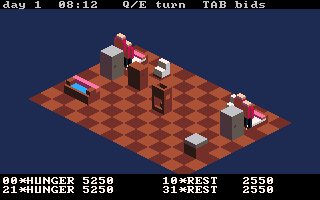
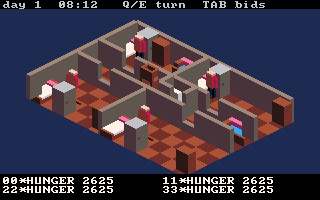
tenement: walls you can see, and residents who lie down on the bed
WALLS RENDER. world.h had edge walls and path.h was already routing around them,
but art.h was not the world agent's file to edit, so the sim was honest and the
picture was not. Iterating each tile's north and west edge visits every wall
exactly once (the south edge IS the next tile's north), and orientation needs no
`facing` field: the DIRECTION is the orientation, so N/S takes the *_NS model and
E/W the *_EW one. That was the world agent's reason for choosing edges and it
makes iso-rooms §8's turned-footprint bug unrepresentable here.

POSTURE, which the maker spotted: residents were STANDING on their beds. Not a
drawing bug - nothing in the model had any notion of posture, so the renderer had
one figure to draw. Posture is now a field on the OFFER, so a bed says "using me
means lying down" and the art follows. A new posture for a new object is a table
row and the draw loop still never asks what an object is (contract rule 2). Note
it sits on the offer, not the object: a sofa is SIT for its FUN offer and would be
LIE if it ever offered REST.

That took two fixes, not one, because posture without placement just moves the
wrongness: the first cut had residents lying on the FLOOR beside the bed. They now
draw ON what they use, at that object's own voxel height from ISO_FOOTPRINT (so a
taller bed lifts the sleeper with no hardcoded number), centred on it rather than
parked at its corner - a bed is 6x12 voxels and a lying figure 3x8, so the origin
[…]

diff --git a/tools/voxel-models/tenement.js b/tools/voxel-models/tenement.js
@@ -264,6 +264,33 @@ module.exports = {
       1,
     ]},
 
+    // ── the figure, LYING DOWN. ──
+    // Posture is a property of the OFFER, not a special case in the renderer: a bed says "using me
+    // means lying down" and the art follows. Standing on a bed was the giveaway that the sim had no
+    // notion of posture at all.
+    //
+    // Head at y=0 so the model lies along +y, the same axis a bed's headboard sits on. Two voxels
+    // tall, because a person on a mattress is a low silhouette and at 24px per tile the read comes
+    // from the OUTLINE (long, with a head at one end), never from detail.
+    person_lie: { layers: [
+      ['.h.',
+       'bbb',
+       'bbb',
+       '.b.',
+       '.j.',
+       '.j.',
+       'j.j',
+       'j.j'],
+      ['.h.',
+       'bbb',
+       '.b.',
+       '...',
+       '...',
+       '...',
+       '...',
+       '...'],
+    ]},
+
     // ── the figure: 12 voxels tall = 24px. ──
     // Arms out at torso level so the shoulder line is wider than the head. That contrast is what
     // makes a small figure read as a person; the 32px first cut had none and read as a lamp.

diff --git a/runtime/tenement/art.h b/runtime/tenement/art.h
@@ -44,8 +44,9 @@ void tn_camera(void) {
     cam_y = floorf((SCREEN_H - 26 - (maxy - miny)) * 0.5f - miny + 12);
 }
 
-typedef struct { float depth; int cell, rot; float vx, vy; int fp0, fp1; } Draw;
-static Draw tnr_dl[TN_MAX_OBJECTS + TN_MAX_AGENTS];
+typedef struct { float depth; int cell, rot; float vx, vy, vz; int fp0, fp1; int shadow; } Draw;
+// + 2*TN_N because every tile can carry a north AND a west edge wall.
+static Draw tnr_dl[TN_MAX_OBJECTS + TN_MAX_AGENTS + 2 * TN_N];
 static int tnr_dl_n;
 static int tnr_cmp_draw(const void *a, const void *b) {
     const float d = ((const Draw*)a)->depth - ((const Draw*)b)->depth;
@@ -70,30 +71,86 @@ void tn_draw_world(void) {
         tnr_dl[tnr_dl_n++] = (Draw){ tnr_iso_depth(tn_rot, tn_obj[o].tx*TN_TILE_VOX + fp[0]*0.5f,
                                                tn_obj[o].ty*TN_TILE_VOX + fp[1]*0.5f),
                              cell, tn_rot, (float)tn_obj[o].tx*TN_TILE_VOX,
-                             (float)tn_obj[o].ty*TN_TILE_VOX, fp[0], fp[1] };
+                             (float)tn_obj[o].ty*TN_TILE_VOX, 0.0f, fp[0], fp[1], 1 };
     }
     for (int i = 0; i < tn_agent_n; i++) {
-        const short *fp = ISO_FOOTPRINT[ISO_PERSON];
-        tnr_dl[tnr_dl_n++] = (Draw){ tnr_iso_depth(tn_rot, tn_agent[i].tx*TN_TILE_VOX + fp[0]*0.5f,
-                                               tn_agent[i].ty*TN_TILE_VOX + fp[1]*0.5f),
-                             ISO_PERSON, (tn_rot + tn_agent[i].facing) & 3,
-                             (float)tn_agent[i].tx*TN_TILE_VOX,
-                             (float)tn_agent[i].ty*TN_TILE_VOX, fp[0], fp[1] };
+        // The cell comes from the agent's POSE, which came from the offer it is using. No branch on
+        // object kind anywhere: a bed does not tell the renderer it is a bed, it tells the sim that
+        // using it means lying down (contract rule 2). Standing on a mattress was the symptom of
+        // there being no notion of posture at all.
+        const int pcell = (tn_agent[i].pose == TN_POSE_LIE) ? ISO_PERSON_LIE : ISO_PERSON;
+        const short *fp = ISO_FOOTPRINT[pcell];
+        // A resident who is not standing is ON the thing it is using, not on the floor beside it.
+        // Position comes from the OBJECT and height from that object's own voxel depth (ISO_FOOTPRINT
+        // carries nx,ny,NZ), so a taller bed lifts the sleeper without anyone hardcoding a number.
+        // Lying beside the bed was the second half of the standing-on-the-bed bug: posture without
+        // placement just moves the wrongness.
+        float ax = (float)tn_agent[i].tx * TN_TILE_VOX, ay = (float)tn_agent[i].ty * TN_TILE_VOX;
+        float az = 0.0f;
+        int   arot = (tn_rot + tn_agent[i].facing) & 3;
+        if (tn_agent[i].pose != TN_POSE_STAND && tn_agent[i].target_obj >= 0) {
+            const TnObject *ob = &tn_obj[tn_agent[i].target_obj];
+            const short *ofp = ISO_FOOTPRINT[OBJ_CELL[ob->kind]];
+            // CENTRED on the furniture, not parked at its corner: a bed is 6x12 voxels and a lying
+            // figure is 3x8, so using the object's origin puts the sleeper half off the mattress.
+            ax = (float)ob->tx * TN_TILE_VOX + (ofp[0] - fp[0]) * 0.5f;
+            ay = (float)ob->ty * TN_TILE_VOX + (ofp[1] - fp[1]) * 0.5f;
+            az = (float)ofp[2];                       // stand ON its surface, whatever height it is
+            arot = tn_rot;                            // align with the furniture, not with the walk
+        }
+        tnr_dl[tnr_dl_n++] = (Draw){ tnr_iso_depth(tn_rot, ax + fp[0]*0.5f, ay + fp[1]*0.5f) + 0.5f,
+                             pcell, arot, ax, ay, az, fp[0], fp[1], az == 0.0f };
     }
+    // ── EDGE WALLS ──────────────────────────────────────────────────────────
+    // world.h stores walls on tile EDGES, not tiles, and only each tile's north and west edge (the
+    // south edge IS the next tile's north). So iterating N and W per tile visits every wall exactly
+    // once, with no double-draw to guard against.
+    //
+    // Orientation needs no `facing` field and cannot be got wrong: the DIRECTION is the orientation,
+    // so a north/south edge takes the *_NS model and an east/west edge the *_EW one. That was the
+    // world agent's reason for choosing edges, and it makes iso-rooms §8's turned-footprint bug
+    // unrepresentable here rather than merely avoided.
+    //
+    // A wall model is 6 voxels long and 2 thick, so it straddles the boundary: offset by half its
+    // thickness so it sits ON the edge rather than inside one of the two tiles.
+    for (int ty = 0; ty < tn_bh; ty++) {
+        for (int tx = 0; tx < tn_bw; tx++) {
+            const float vx = tx * TN_TILE_VOX, vy = ty * TN_TILE_VOX;
+            const int en = tn_edge_at(tx, ty, TN_DIR_N);
+            if (en != TN_WALL_NONE) {
+                const int cell = (en == TN_WALL_DOOR) ? ISO_WALL_LOW_NS : ISO_WALL_FULL_NS;
+                const short *fp = ISO_FOOTPRINT[cell];
+                tnr_dl[tnr_dl_n++] = (Draw){ tnr_iso_depth(tn_rot, vx + fp[0] * 0.5f, vy),
+                                             cell, tn_rot, vx, vy - 1.0f, 0.0f, fp[0], fp[1], 0 };
+            }
+            const int ew = tn_edge_at(tx, ty, TN_DIR_W);
+            if (ew != TN_WALL_NONE) {
+                const int cell = (ew == TN_WALL_DOOR) ? ISO_WALL_LOW_EW : ISO_WALL_FULL_EW;
+                const short *fp = ISO_FOOTPRINT[cell];
+                tnr_dl[tnr_dl_n++] = (Draw){ tnr_iso_depth(tn_rot, vx, vy + fp[1] * 0.5f),
+                                             cell, tn_rot, vx - 1.0f, vy, 0.0f, fp[0], fp[1], 0 };
+            }
+        }
+    }
+
     qsort(tnr_dl, tnr_dl_n, sizeof tnr_dl[0], tnr_cmp_draw);
     for (int i = 0; i < tnr_dl_n; i++) {
         const IsoCell *c = &ISO_CELLS[tnr_dl[i].cell][tnr_dl[i].rot];
-        float sx, sy; tnr_iso_project(tn_rot, tnr_dl[i].vx, tnr_dl[i].vy, 0, &sx, &sy);
-        // one-voxel-INSET contact shadow: an integer inset, because a fractional pad puts the quad
-        // between lattice points and strays everywhere (iso-rooms.md §7's measured table)
-        float q[4][2]; const float pad = 1.0f;
-        const float x0 = tnr_dl[i].vx+pad, y0 = tnr_dl[i].vy+pad;
-        const float x1 = tnr_dl[i].vx+tnr_dl[i].fp0-pad, y1 = tnr_dl[i].vy+tnr_dl[i].fp1-pad;
-        tnr_iso_project(tn_rot, x0,y0,0,&q[0][0],&q[0][1]); tnr_iso_project(tn_rot, x1,y0,0,&q[1][0],&q[1][1]);
-        tnr_iso_project(tn_rot, x1,y1,0,&q[2][0],&q[2][1]); tnr_iso_project(tn_rot, x0,y1,0,&q[3][0],&q[3][1]);
-        quadfill((int)(q[0][0]+cam_x),(int)(q[0][1]+cam_y),(int)(q[1][0]+cam_x),(int)(q[1][1]+cam_y),
-                 (int)(q[2][0]+cam_x),(int)(q[2][1]+cam_y),(int)(q[3][0]+cam_x),(int)(q[3][1]+cam_y),
-                 CLR_BROWNISH_BLACK);
+        float sx, sy; tnr_iso_project(tn_rot, tnr_dl[i].vx, tnr_dl[i].vy, tnr_dl[i].vz, &sx, &sy);
+        // A contact shadow, but only for things that stand on a TILE. A wall stands on an EDGE, so
+        // its footprint quad would smear a dark stripe along the boundary between two rooms.
+        if (tnr_dl[i].shadow) {
+            // one-voxel-INSET: an integer inset, because a fractional pad puts the quad between
+            // lattice points and strays pixels everywhere (iso-rooms.md §7's measured table)
+            float q[4][2]; const float pad = 1.0f;
+            const float x0 = tnr_dl[i].vx+pad, y0 = tnr_dl[i].vy+pad;
+            const float x1 = tnr_dl[i].vx+tnr_dl[i].fp0-pad, y1 = tnr_dl[i].vy+tnr_dl[i].fp1-pad;
+            tnr_iso_project(tn_rot, x0,y0,0,&q[0][0],&q[0][1]); tnr_iso_project(tn_rot, x1,y0,0,&q[1][0],&q[1][1]);
+            tnr_iso_project(tn_rot, x1,y1,0,&q[2][0],&q[2][1]); tnr_iso_project(tn_rot, x0,y1,0,&q[3][0],&q[3][1]);
+            quadfill((int)(q[0][0]+cam_x),(int)(q[0][1]+cam_y),(int)(q[1][0]+cam_x),(int)(q[1][1]+cam_y),
+                     (int)(q[2][0]+cam_x),(int)(q[2][1]+cam_y),(int)(q[3][0]+cam_x),(int)(q[3][1]+cam_y),
+                     CLR_BROWNISH_BLACK);
+        }
         sspr(c->x, c->y, c->w, c->h, (int)(sx+cam_x)-c->ox, (int)(sy+cam_y)-c->oy, c->w, c->h);
     }
 }

diff --git a/tools/carts/tenement.c b/tools/carts/tenement.c
@@ -298,6 +298,37 @@ void spec(void) {
                "case 9: and the activity clock moved on, rather than being stuck on the old one");
     }
 
+    // ── CASE 10: POSTURE IS DATA, AND THE BODY FOLLOWS THE OBJECT ───────────
+    // The maker's observation: residents were STANDING on their beds. The cause was not a drawing
+    // bug, it was that nothing in the model had any notion of posture, so the renderer had only one
+    // figure to draw. The fix is a field on the OFFER, which means a new posture for a new object is
+    // a table row (contract rule 3) and the draw loop never asks what an object is.
+    tn_obj_n = 0; tn_agent_n = 0;
+    tn_add_obj(TN_OBJ_BED,    1, 1, 0);
+    tn_add_obj(TN_OBJ_TOILET, 3, 1, 0);
+    tn_add_agent(0, 1, 2);
+    {
+        // The table itself: every offer declares a pose, and the three that matter differ.
+        expect(TN_OFFERS[TN_OBJ_BED][0].pose    == TN_POSE_LIE,   "case 10: a bed says LIE");
+        expect(TN_OFFERS[TN_OBJ_TOILET][0].pose == TN_POSE_SIT,   "case 10: a toilet says SIT");
+        expect(TN_OFFERS[TN_OBJ_LOOM][0].pose   == TN_POSE_STAND, "case 10: a loom says STAND");
+
+        // And the body follows it in the running sim, which is the part that was broken.
+        for (int n = 0; n < TN_NEED_COUNT; n++) tn_agent[0].need[n] = 255;
+        tn_agent[0].need[TN_SERVE_REST] = 20;
+        expect(tn_agent[0].pose == TN_POSE_STAND, "case 10: a resident starts on its feet");
+        int lay = 0;
+        for (int i = 0; i < 40 && !lay; i++) {
+            tn_agents_tick();
+            if (tn_agent[0].activity == TN_ACT_USE && tn_agent[0].pose == TN_POSE_LIE) lay = 1;
+        }
+        expect(lay, "case 10: a resident sent to bed is LYING DOWN, not standing on it");
+        // Finishing must put it back on its feet, or it walks around horizontally forever.
+        for (int i = 0; i < 600; i++) tn_agents_tick();
+        expect(tn_agent[0].pose == TN_POSE_STAND || tn_agent[0].activity == TN_ACT_USE,
+               "case 10: and it stands up again when it is done");
+    }
+
     // ── every module's own assertions, per spec.h's "SPECS ON AN INCLUDEABLE" ────────────────
     // Each module wrote and verified these against its own file; wiring them is the integrator's
     // job, and until this line existed none of them ran in the real build.

diff --git a/runtime/tenement/model.h b/runtime/tenement/model.h
@@ -149,6 +149,14 @@ typedef enum {
 #define TN_NEED_COUNT TN_SERVE_COUNT
 _Static_assert(TN_SERVE_HUNGER == 0, "needs must be the leading run of TnTag");
 
+// ── POSTURE: what using a thing does to your BODY ───────────────────────────
+// On the OFFER, because it is a property of the thing, not of the renderer and not of the person.
+// A bed says "using me means lying down"; the art follows. The alternative is a special case in the
+// draw loop keyed on object kind, which is contract rule 2 and the exact thing this design refuses.
+// Note it sits on the OFFER rather than the object: a sofa is SIT for its FUN offer and would be LIE
+// if it ever offered REST, and those are two different rows.
+typedef enum { TN_POSE_STAND = 0, TN_POSE_SIT, TN_POSE_LIE, TN_POSE_COUNT } TnPose;
+
 // ── one OFFER: what an object gives, how well, at what cost ─────────────────
 // `strength` and `cost` are what make the agent's choice an ARGMAX over numbers
 // rather than a hand-written priority list, which is what makes it oracle-able.
@@ -160,6 +168,7 @@ typedef struct {
                                           // silently wrap to 224 in a byte. The compiler
                                           // caught this before anyone built against it.
     unsigned char capacity;               // simultaneous users; 1 = the queue-former
+    unsigned char pose;                   // TnPose the user adopts. Art reads it; nothing branches.
 } TnOffer;
 
 // ─────────────────────────────────────────────────────────────────────────────
@@ -226,6 +235,7 @@ typedef struct {
     // The bid this agent last WON. Lives here rather than in a module-private array because two
     // modules need it: `agents` writes it, `hud` draws it. Showing the winning bid is a design
     // feature (design §1: the interesting half of this sim is invisible), not debug output.
+    unsigned char pose;                   // TnPose right now, set from the offer being used
     unsigned char bid_tag;                // TnTag, or TN_SERVE_COUNT for "nothing on offer"
     int           bid_score;
 } TnAgent;

diff --git a/runtime/tenement/atlas.h b/runtime/tenement/atlas.h
@@ -3,9 +3,9 @@
 // Baked rotation cells for an isometric room. See docs/design/iso-rooms.md.
 #pragma once
 
-#define ISO_SIG      "660fe8d2"   // guard: the .cart.js re-derives this
+#define ISO_SIG      "5bcd2bc6"   // guard: the .cart.js re-derives this
 #define ISO_ATLAS_W  128
-#define ISO_ATLAS_H  249
+#define ISO_ATLAS_H  261
 #define ISO_TW       4    // diagonal tile width, px per voxel unit
 #define ISO_TH       2
 #define ISO_CW       4    // cardinal tile width (== ISO_TW keeps the footprint equal)
@@ -28,11 +28,12 @@ typedef enum {
     ISO_WALL_FULL_EW = 8,
     ISO_LOOM = 9,
     ISO_WARDROBE = 10,
-    ISO_PERSON = 11,
-    ISO_MODEL_COUNT = 12
+    ISO_PERSON_LIE = 11,
+    ISO_PERSON = 12,
+    ISO_MODEL_COUNT = 13
 } IsoModel;
 
-static const char *ISO_NAMES[ISO_MODEL_COUNT] = { "sofa", "bed", "toilet", "fridge", "counter", "wall_low_ns", "wall_low_ew", "wall_full_ns", "wall_full_ew", "loom", "wardrobe", "person" };
+static const char *ISO_NAMES[ISO_MODEL_COUNT] = { "sofa", "bed", "toilet", "fridge", "counter", "wall_low_ns", "wall_low_ew", "wall_full_ns", "wall_full_ew", "loom", "wardrobe", "person_lie", "person" };
 
 // [model][rotation]. Rotation is 0..7; EVEN = cardinal, ODD = diagonal.
 static const IsoCell ISO_CELLS[ISO_MODEL_COUNT][ISO_ROTS] = {
@@ -47,6 +48,7 @@ static const IsoCell ISO_CELLS[ISO_MODEL_COUNT][ISO_ROTS] = {
     /* wall_full_ew */ { {0,70,16,32,12,24}, {16,70,16,32,16,30}, {32,70,16,32,4,32}, {48,70,16,32,0,26} },
     /* loom       */ { {96,0,20,34,8,24}, {0,36,20,34,20,28}, {20,36,20,34,12,34}, {40,36,20,34,0,30} },
     /* wardrobe   */ { {36,102,20,30,8,20}, {56,102,20,30,20,24}, {76,102,20,30,12,30}, {96,102,20,30,0,26} },
+    /* person_lie */ { {64,233,20,14,16,3}, {104,233,20,12,22,10}, {0,249,20,12,4,13}, {84,233,20,14,-2,6} },
     /* person     */ { {96,132,12,28,2,23}, {72,132,12,29,12,25}, {84,132,12,29,10,30}, {108,132,12,28,0,28} },
 };
 
@@ -63,5 +65,6 @@ static const short ISO_FOOTPRINT[ISO_MODEL_COUNT][3] = {
     /* wall_full_ew */ {2,6,12},
     /* loom       */ {6,4,12},
     /* wardrobe   */ {6,4,10},
+    /* person_lie */ {3,8,2},
     /* person     */ {5,3,12},
 };

diff --git a/runtime/tenement/offer.h b/runtime/tenement/offer.h
@@ -10,15 +10,15 @@
 #define TENEMENT_OFFER_H
 
 const TnOffer TN_OFFERS[TN_OBJ_KIND_COUNT][TN_MAX_OFFERS] = {
-    [TN_OBJ_BED]      = { { TN_SERVE_REST,    120, 480, 1 } },   // 8 hours; short, not char
-    [TN_OBJ_FRIDGE]   = { { TN_SERVE_HUNGER,  100,  30, 1 },
-                          { TN_STORE_FOOD,     -1,   0, 8 } },
-    [TN_OBJ_COUNTER]  = { { TN_SERVE_HUNGER,   40,  20, 1 },     // a snack, worse than the fridge
-                          { TN_CAP_WORK,       -1,   0, 1 } },
-    [TN_OBJ_TOILET]   = { { TN_SERVE_BLADDER, 110,  10, 1 } },
-    [TN_OBJ_SOFA]     = { { TN_SERVE_FUN,      90,  60, 2 } },   // the only shareable thing here
-    [TN_OBJ_LOOM]     = { { TN_CAP_WORK,       -1, 480, 1 } },   // the dumb machine, design §4
-    [TN_OBJ_WARDROBE] = { { TN_STORE_CLOTHES,  -1,   0, 6 } },
+    [TN_OBJ_BED]      = { { TN_SERVE_REST,    120, 480, 1, TN_POSE_LIE } },   // 8h; you LIE on a bed
+    [TN_OBJ_FRIDGE]   = { { TN_SERVE_HUNGER,  100,  30, 1, TN_POSE_STAND },
+                          { TN_STORE_FOOD,     -1,   0, 8, TN_POSE_STAND } },
+    [TN_OBJ_COUNTER]  = { { TN_SERVE_HUNGER,   40,  20, 1, TN_POSE_STAND },  // a snack, worse than the fridge
+                          { TN_CAP_WORK,       -1,   0, 1, TN_POSE_STAND } },
+    [TN_OBJ_TOILET]   = { { TN_SERVE_BLADDER, 110,  10, 1, TN_POSE_SIT } },
+    [TN_OBJ_SOFA]     = { { TN_SERVE_FUN,      90,  60, 2, TN_POSE_SIT } },   // the only shareable thing
+    [TN_OBJ_LOOM]     = { { TN_CAP_WORK,       -1, 480, 1, TN_POSE_STAND } },  // the dumb machine, §4
+    [TN_OBJ_WARDROBE] = { { TN_STORE_CLOTHES,  -1,   0, 6, TN_POSE_STAND } },
 };
 const unsigned char TN_OFFER_N[TN_OBJ_KIND_COUNT] = {
     [TN_OBJ_BED] = 1, [TN_OBJ_FRIDGE] = 2, [TN_OBJ_COUNTER] = 2, [TN_OBJ_TOILET] = 1,

diff --git a/runtime/tenement/agents.h b/runtime/tenement/agents.h
@@ -34,6 +34,7 @@ void tn_agents_tick(void) {
                     if (tn_obj[a->target_obj].users > 0) tn_obj[a->target_obj].users--;
                 }
                 a->target_obj = -1; a->activity = TN_ACT_IDLE;
+                a->pose = TN_POSE_STAND;   // done: back on your feet
             }
             break;
         case TN_ACT_WALK:
@@ -48,6 +49,7 @@ void tn_agents_tick(void) {
                     if (of && tn_obj[a->target_obj].users < of->capacity) {
                         tn_obj[a->target_obj].users++;
                         a->activity = TN_ACT_USE;
+                        a->pose = of->pose;   // the OBJECT decides what your body does
                         a->until = tn_now() + of->minutes;   // absolute: cannot wrap
                     } else { a->target_obj = -1; a->activity = TN_ACT_IDLE; }
                 }

diff --git a/docs/design/tenement.md b/docs/design/tenement.md
@@ -275,6 +275,50 @@ contract's per-module owner comments are unfulfilled. The iso projection is copi
 extract `runtime/isoview.h` when a second consumer proves the shape, per
 [ADR-0006](../decisions/0006-library-carts-not-engine.md).
 
+## 11. Relationships, and why they are the same thing as §8b
+
+Asked for by the maker: interactions and communication between residents, and **eventually** children.
+Written down rather than built, because the "eventually" is doing real work in that sentence.
+
+**The satisfying part: this is not a new system.** The offer index already matches a need against
+whoever can serve it. Relationships mean the population of **offerers** grows from *objects* to
+*objects and people*. A social need is served by another resident, so `tn_best_action` ranges over
+(offerer, need) pairs where an offerer may be either. The tag vocabulary gains `TN_SERVE_SOCIAL`;
+`tno_score` gains nothing. That is the payoff of §2 arriving on schedule.
+
+**The one genuinely new mechanic: an interaction is two-sided.** A fridge does not have to want you
+back. A person does. So a social bid needs a commitment from both ends, which objects never needed,
+and it is the first thing in this design that cannot be expressed as a one-way offer. That is where
+the work is, and it is worth doing carefully rather than bolting a hand-written "find a friend" pass
+onto the argmax, which is the shape §10 spent a slice removing.
+
+**State: a pair matrix.** Relationship strength is per-pair, so `TN_MAX_AGENTS²` = 576 entries at
+today's bounds. Small enough to be a plain array and to stay in the contract.
+
+**Children arrive on seam 3, which already exists.** A child is an agent with a different `species`,
+a different needs vector, a different gait, and no wallet. The matcher already asks "does this offer
+serve *this* agent", so a toddler who cannot use a loom is a table row rather than a code path.
+Reproduction is then a two-agent interaction with a delayed effect that calls `tn_add_agent`, and it
+wants household membership, which is now populated (the `econ` agent found it never was, and `world`
+fixed it).
+
+**And here is the connection worth making explicitly, because it reframes the whole thing.** §8b asked
+what the *reclaimed hours* are for, on the observation that The Sims accidentally becomes
+anti-consumerist: objects buy back TIME, and the late game empties out because nothing consumes the
+hours that money bought. Relationships **are** the answer to that question. Time is the only thing
+that can be spent on another person, and in a building full of households the hours only mean
+anything in relation to the neighbours.
+
+So relationships are not a feature sitting beside the economy. They are the **sink** the economy has
+been missing, in exactly the source/sink/feedback sense §3's gate demands. A furnished flat that
+meets four needs quickly is not the end of the game; it is the beginning of having time.
+
+That also settles the sequencing without needing a win condition: build the economy until residents
+have spare hours, then give the hours somewhere to go. Neither half is interesting alone.
+
+**Not in v1.** Recorded so the contract leaves room, and so the next person does not invent a
+separate social system beside the offer index.
+
 ## See also
 
 - [`iso-rooms.md`](iso-rooms.md) — the renderer this is built on, its settled geometry, and the
